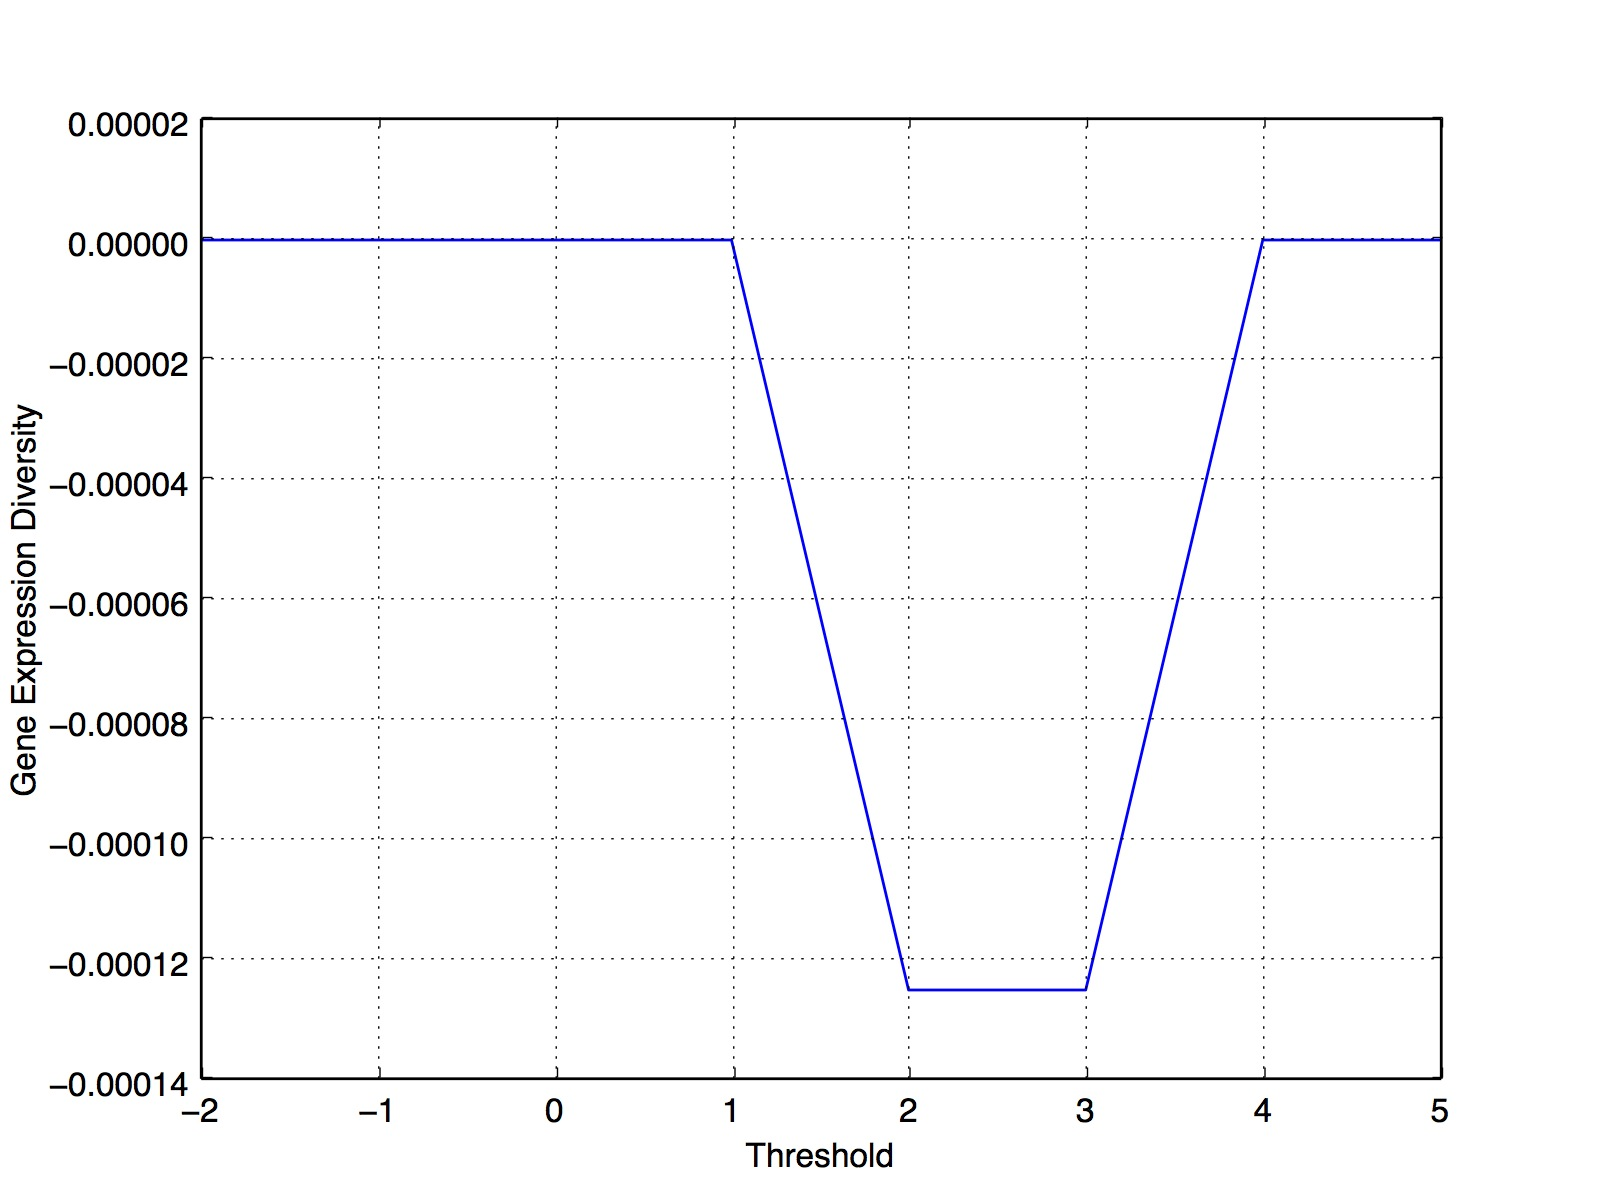
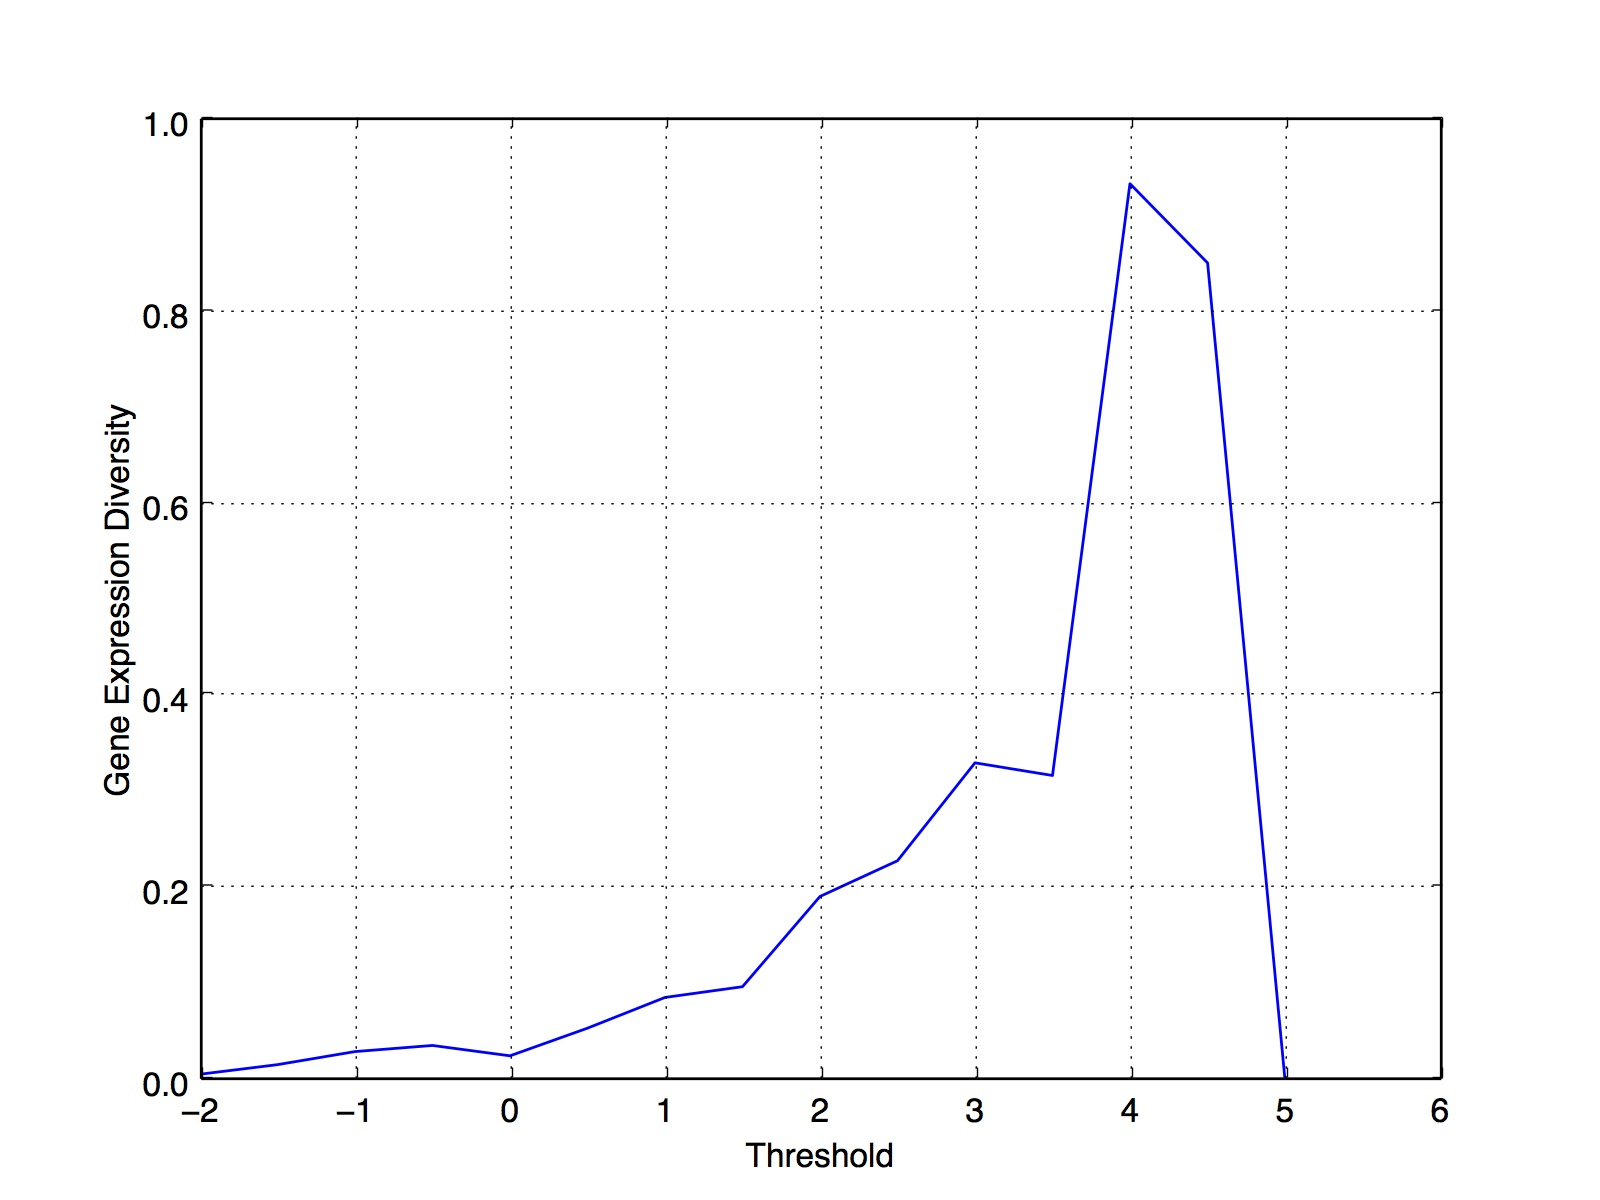
Added a benchmarking test for gene expression diversity, and other optimizations

diff --git a/genenetwork.py b/genenetwork.py
@@ -20,7 +20,7 @@ class geneNetwork:
 	G = nx.Graph()
 	GPerm = None
 
-	#To keep track of node values
+	#To keep track of node values for updating
 	GNodes = {}
 	GPermNodes = {}
 
@@ -250,7 +250,8 @@ class geneNetwork:
 					X[n] += value
 
 		#Now, normalize
-		return [float(value) / (stop - start) for value in X]					
+		geneExpFactor = [float(value) / (stop - start) for value in X]
+		return geneExpFactor			
  
 	"""
 	Calculate expression diversity for this network	
@@ -261,7 +262,9 @@ class geneNetwork:
 		expDiv = 0
 		#Create expression factors
 		for i in xrange(0, numICs):
+			t1Exp = time.time()
 			allX.append(self.createGeneExpFactor(threshold=threshold))
+			t2Exp = time.time()
 			self.reset(resetEdges=False)
 
 		#Now, sum over all expression factors
@@ -270,11 +273,12 @@ class geneNetwork:
 			for n in xrange(0, numICs):
 				if m != n:
 					for j in xrange(0, self.numGenes): 
-						expDiv = allX[m][j] - allX[n][j]
+						expDiv += abs(allX[m][j] - allX[n][j])
 
 		#normalize and return
-		return expDiv / (self.numGenes * numICs)
+		normExpDiv =  expDiv / (self.numGenes * numICs)
 
+		return normExpDiv
 
 	"""
 	Compute a set of data representing gene expression 

diff --git a/genetest.py b/genetest.py
@@ -15,12 +15,30 @@ Last edited: 1/13/14
 
 def main():
     
-    #Create new graph, fill it with some values
+    #Testing expression diversity code
+    nStart = 200
+    nEnd = 1000
 
-    network = gn.geneNetwork(preset="RANDOM", numNodes=1000, connectionsPerNode=10)
+    times = []
 
-    network.generateExpDivVsThreshold(thresholdMin=-2, thresholdMax=6,
-                                        thresholdStep=0.25, numICsPerThreshold=4)
+    for numGenes in xrange(nStart, nEnd, 100):
+
+        network = gn.geneNetwork(preset="RANDOM", numNodes=numGenes, connectionsPerNode=int(0.01*numGenes))
+
+        t1 = time.time()
+        network.generateExpDivVsThreshold(thresholdMin=0, thresholdMax=1,
+                                            thresholdStep=1, numICsPerThreshold=10)
+        t2 = time.time()
+
+        times.append(t2 - t1)
+
+    #Plot the timings
+    plt.clf()
+    plt.plot(times, xrange(nStart, nEnd, 100))
+    plt.xlabel('Time to compute')
+    plt.ylabel('Number of nodes') 
+    plt.grid(True)
+    plt.savefig("GEDBenchmark.jpg")
 
 
 if __name__ == "__main__":
